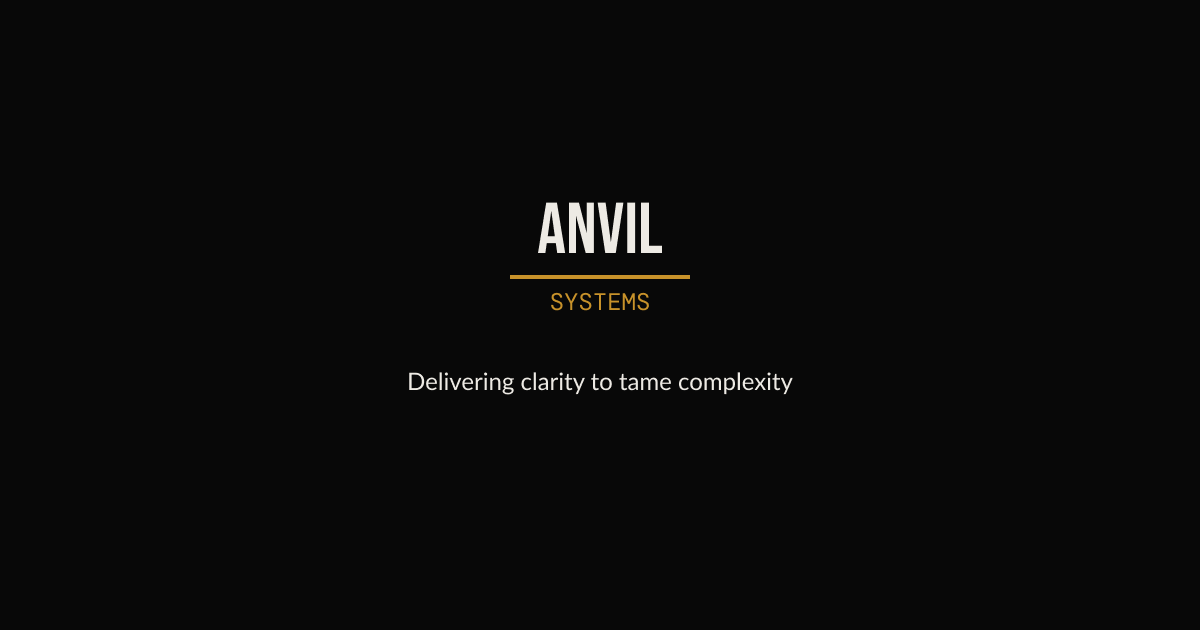
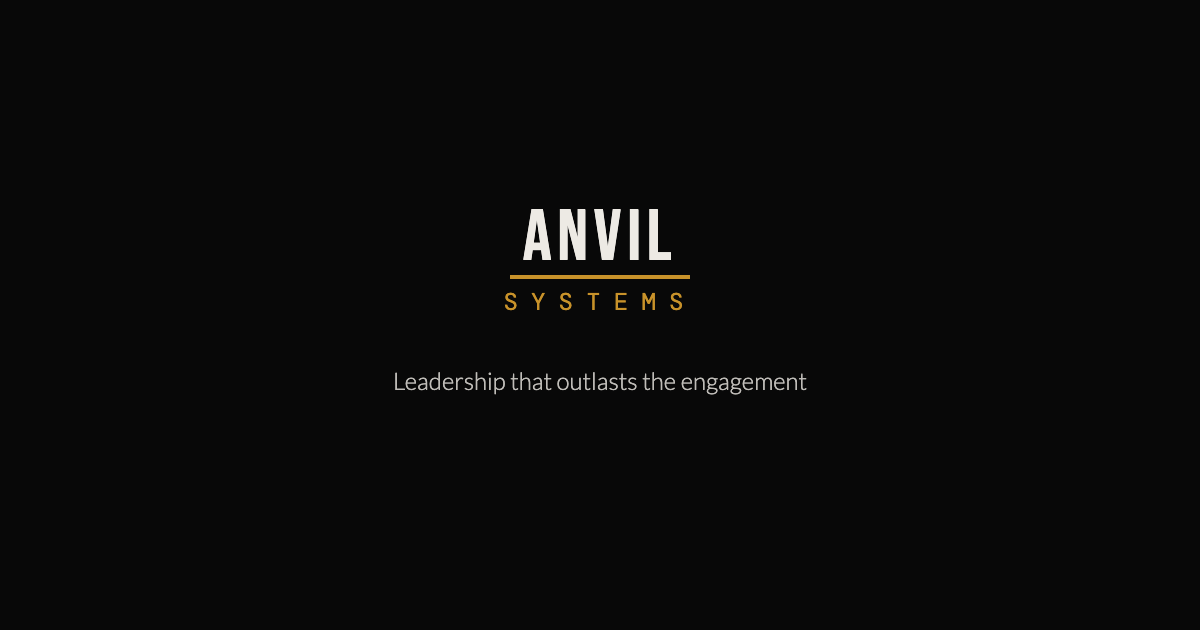
feat(brand): replace tagline with 'Leadership that outlasts the engagement'
Update hero, footer, title, meta/OG/Twitter tags, JSON-LD, llms.txt,
one-pager, and regenerate og-image.png plus SVG sources with the new
tagline.

Changed region(s): [[0.3392, 0.573, 0.6783, 0.6333], [0.4317, 0.3016, 0.555, 0.4222], [0.4008, 0.4524, 0.5858, 0.5127]]

diff --git a/index.html b/index.html
@@ -4,10 +4,10 @@
 <head>
     <meta charset="UTF-8">
     <meta name="viewport" content="width=device-width, initial-scale=1.0">
-    <title>Anvil Systems — Delivering Clarity to Tame Complexity</title>
+    <title>Anvil Systems — Fractional CTO | Leadership That Outlasts the Engagement</title>
 
     <meta name="description"
-        content="Fractional CTO and technology leadership for startups and scale-ups. Delivering clarity across people, process, and product to tame complexity.">
+        content="Fractional CTO for startups and scale-ups. Leadership that outlasts the engagement — teams, process, and platforms that keep delivering after the handoff.">
     <meta name="keywords"
         content="fractional cto, startup cto, technology consulting, tech strategy, engineering leadership, cloud migration">
     <meta name="author" content="Anvil Systems">
@@ -35,21 +35,21 @@
     <!-- Open Graph -->
     <meta property="og:type" content="website">
     <meta property="og:url" content="https://anvilsystems.com/">
-    <meta property="og:title" content="Anvil Systems — Delivering Clarity to Tame Complexity">
+    <meta property="og:title" content="Anvil Systems — Leadership That Outlasts the Engagement">
     <meta property="og:description"
-        content="Fractional CTO and technology leadership. Delivering clarity across people, process, and product.">
+        content="Operator-led fractional CTO for startups and scale-ups. Leadership that outlasts the engagement.">
     <meta property="og:image" content="https://anvilsystems.com/assets/og-image.png">
     <meta property="og:image:width" content="1200">
     <meta property="og:image:height" content="630">
-    <meta property="og:image:alt" content="Anvil Systems — Delivering Clarity to Tame Complexity">
+    <meta property="og:image:alt" content="Anvil Systems — Leadership That Outlasts the Engagement">
 
     <!-- Twitter -->
     <meta name="twitter:card" content="summary_large_image">
-    <meta name="twitter:title" content="Anvil Systems — Delivering Clarity to Tame Complexity">
+    <meta name="twitter:title" content="Anvil Systems — Leadership That Outlasts the Engagement">
     <meta name="twitter:description"
-        content="Fractional CTO and technology leadership. Delivering clarity across people, process, and product.">
+        content="Operator-led fractional CTO for startups and scale-ups. Leadership that outlasts the engagement.">
     <meta name="twitter:image" content="https://anvilsystems.com/assets/og-image.png">
-    <meta name="twitter:image:alt" content="Anvil Systems — Delivering Clarity to Tame Complexity">
+    <meta name="twitter:image:alt" content="Anvil Systems — Leadership That Outlasts the Engagement">
 
     <!-- Structured Data -->
     <script type="application/ld+json">
@@ -60,7 +60,7 @@
       "url": "https://anvilsystems.com",
       "logo": "https://anvilsystems.com/assets/logo-dark-lg.png",
       "image": "https://anvilsystems.com/assets/og-image.png",
-      "description": "Fractional CTO and technology leadership for startups and scale-ups. Delivering clarity across people, process, and product to tame complexity.",
+      "description": "Operator-led fractional CTO and technology leadership for startups and scale-ups. Leadership that outlasts the engagement — aligning people, process, and product.",
       "telephone": "+1-615-900-4473",
       "address": {"@type": "PostalAddress", "addressCountry": "US"},
       "areaServed": ["Worldwide"],
@@ -135,7 +135,7 @@
                         </h1>
 
                         <p class="hero-tagline">
-                            <strong>Delivering clarity</strong> to tame complexity
+                            <strong>Leadership</strong> that outlasts the engagement
                         </p>
 
                         <div class="hero-actions">
@@ -507,7 +507,7 @@
                     <span class="logo-systems">Systems</span>
                 </a>
 
-                <span class="footer-tagline">Delivering clarity to tame complexity</span>
+                <span class="footer-tagline">Leadership that outlasts the engagement</span>
                 <span class="footer-copy">&copy; <span id="copyright-year"></span> Anvil Systems, LLC &middot;
                     Creator of <a href="https://leanto.dev" class="footer-link" target="_blank"
                         rel="noopener noreferrer">LeanTo</a></span>
